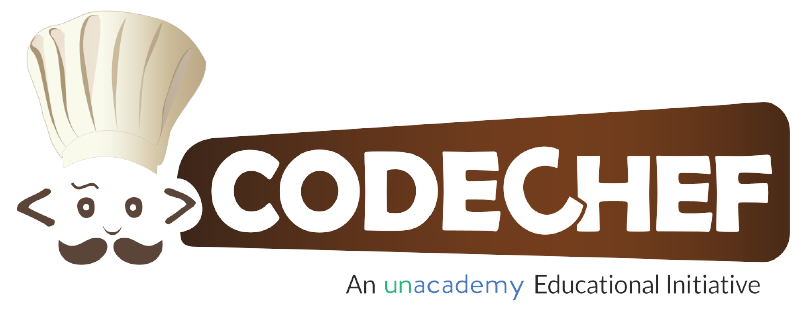
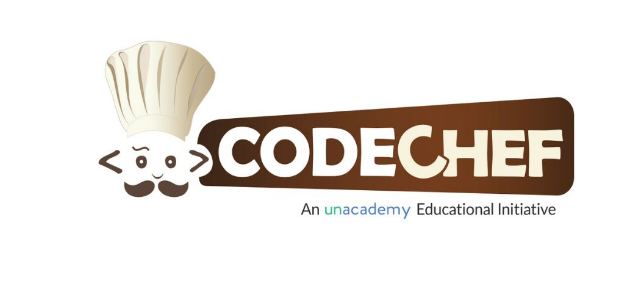
added cp and cc img

diff --git a/frontend/src/Components/Cp/Cp.js b/frontend/src/Components/Cp/Cp.js
@@ -1,6 +1,6 @@
 import React, { useState, useEffect } from 'react'
 import ccImage from '../../Public/image/cc.png'
-import cfImage from '../../Public/image/cf.png'
+import cfImage from '../../Public/image/cf.jpg'
 import 'bootstrap/dist/css/bootstrap.min.css';
 import '../../Public/css/CP.css'
 import { Col, Container, Row } from 'react-bootstrap';
